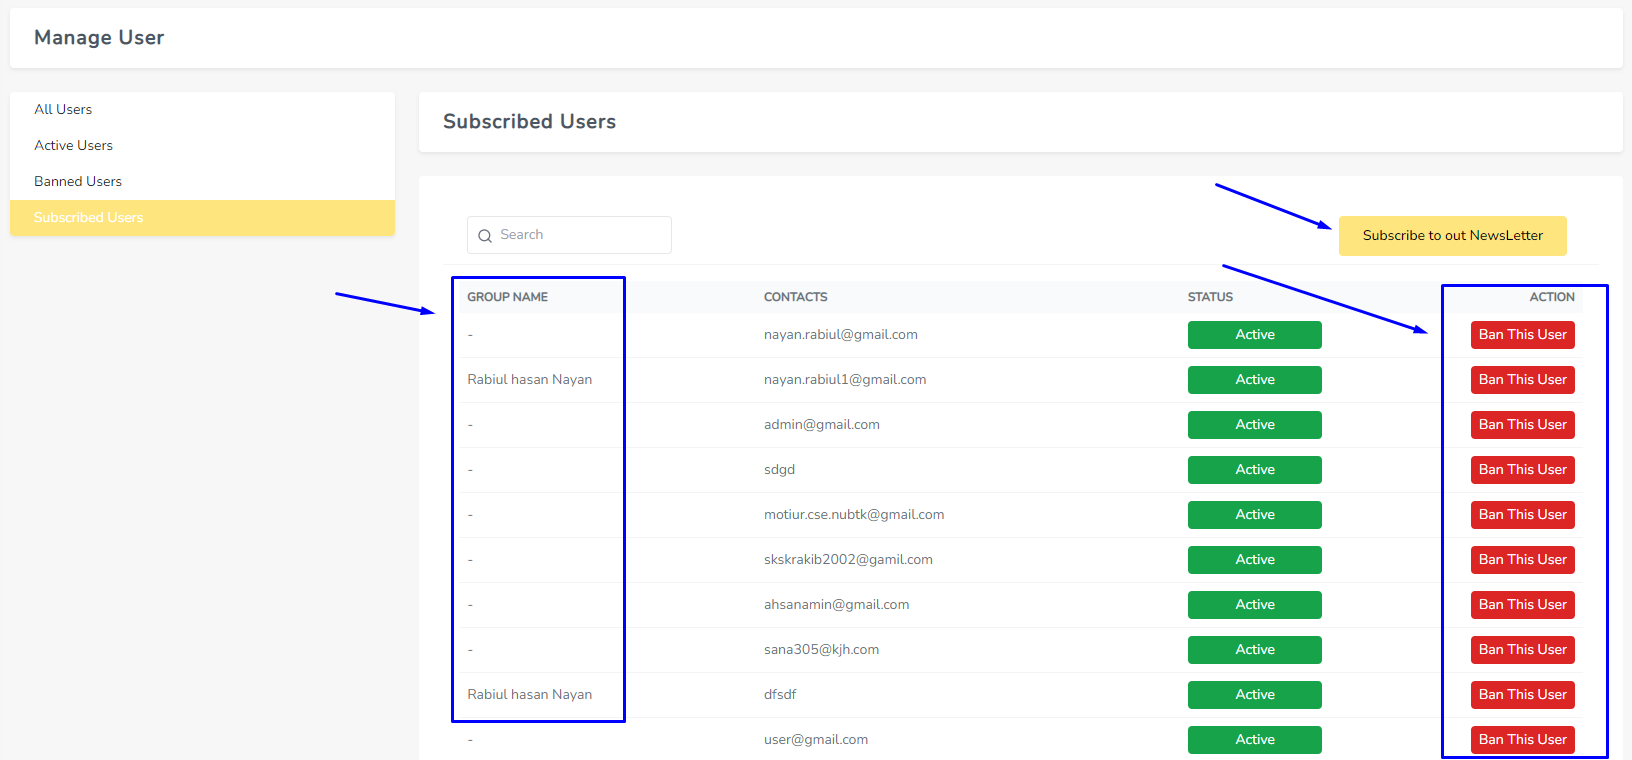
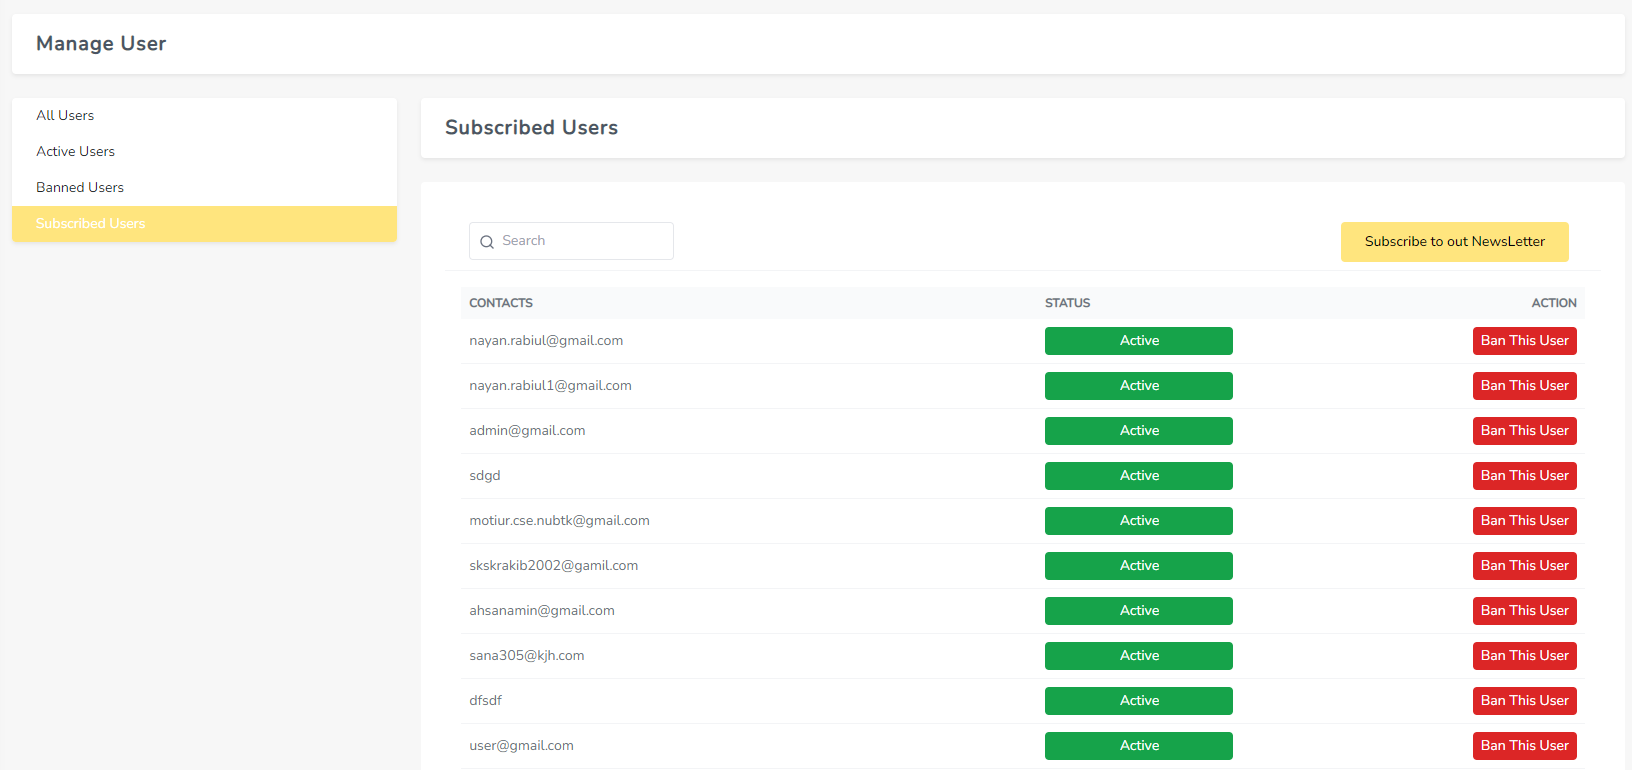
minor change

diff --git a/pages/admin/marketing/index.js b/pages/admin/marketing/index.js
@@ -114,7 +114,7 @@ const Marketing = () => {
                         <div className='my-4'>
                             <h5 className='border-b-[1px] border-[#FFA525] capitalize pb-2'>Subscribed Users</h5>
                             <div className='m-4'>
-                                <p className='text-base'>Here, you will see a list of all users who have subscribed to this platform by using the landing page newsletter form. You can ban or activate any user from the list by using the action button on the right side. If any user is included in a group, then you will see the group name on the left side. You can also add a subscribed user manually by clicking on the <span className='text-[#FFA525] font-semibold'>subscribe to our newsletter</span> button.</p>
+                                <p className='text-base'>Here, you will see a list of all users who have subscribed to this platform by using the landing page newsletter form. You can ban or activate any user from the list by using the action button on the right side. You can also add a subscribed user manually by clicking on the <span className='text-[#FFA525] font-semibold'>subscribe to our newsletter</span> button.</p>
                                 <img className='h-auto w-auto shadow-sm' src='/images/admin/marketing/subscribed-user.png' alt="" />
                             </div>
                         </div>
